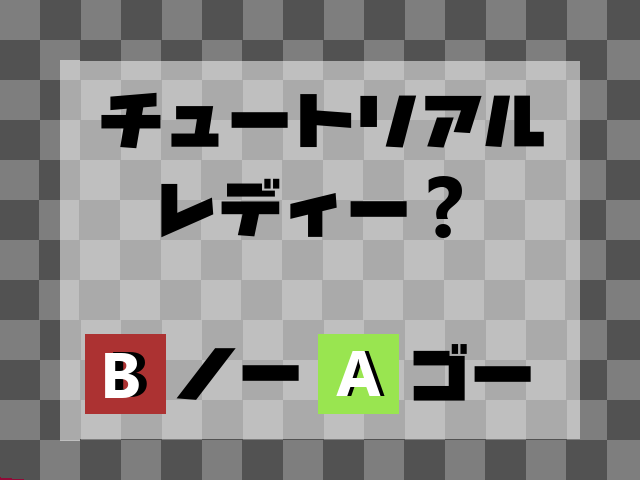
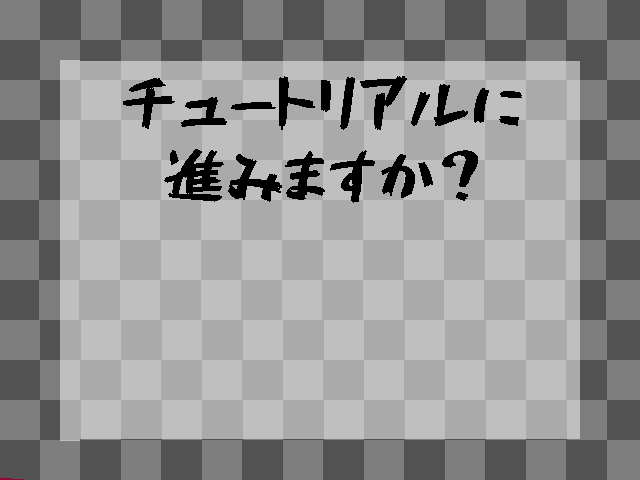
【チュートリアル入り修正】気になる点を修正しました

Changed region(s): [[0.1562, 0.1562, 0.875, 0.5], [0.5, 0.6875, 0.8438, 0.875], [0.125, 0.6875, 0.4688, 0.875]]

diff --git a/SourceCode/gamesystem/scene/MapScene.cpp b/SourceCode/gamesystem/scene/MapScene.cpp
@@ -35,6 +35,30 @@ void MapScene::Initialize(DirectXCommon* dxCommon) {
 	cheack->SetSize({ 0.f,0.f });
 	cheack->SetAnchorPoint({ 0.5f,0.5f });
 
+	const int NumberCount = 2;
+	const float l_Width_Cut = 320.0f;
+	const float l_Height_Cut = 64.0f;
+	for (auto i = 0; i < NumberCount; i++) {
+		cheack_OK[i] = IKESprite::Create(ImageManager::MAP_CHEACK_OK, { 640.f,392.f });
+		cheack_NO[i] = IKESprite::Create(ImageManager::MAP_CHEACK_NO, { 640.f,492.f });
+
+		int number_index_y = i / NumberCount;
+		int number_index_x = i % NumberCount;
+		cheack_OK[i]->SetTextureRect(
+			{ static_cast<float>(number_index_x) * l_Width_Cut, static_cast<float>(number_index_y) * l_Height_Cut },
+			{ static_cast<float>(l_Width_Cut), static_cast<float>(l_Height_Cut) });
+		cheack_NO[i]->SetTextureRect(
+			{ static_cast<float>(number_index_x) * l_Width_Cut, static_cast<float>(number_index_y) * l_Height_Cut },
+			{ static_cast<float>(l_Width_Cut), static_cast<float>(l_Height_Cut) });
+
+		cheack_OK[i]->SetSize({ 0.f,0.f });
+		cheack_OK[i]->SetAnchorPoint({ 0.5f,0.5f });
+
+		cheack_NO[i]->SetSize({ 0.f,0.f });
+		cheack_NO[i]->SetAnchorPoint({ 0.5f,0.5f });
+	}
+
+
 	UIs[0][Middle].sprite = IKESprite::Create(ImageManager::MAP_START, { 0,0 });
 	UIs[0][Middle].pos = { homeX ,homeY[Middle] };
 	UIs[0][Middle].open = true;
@@ -258,6 +282,9 @@ void MapScene::FrontDraw(DirectXCommon* dxCommon) {
 
 	IKESprite::PreDraw();
 	cheack->Draw();
+	cheack_OK[1 - nowCheack]->Draw();
+	cheack_NO[nowCheack]->Draw();
+
 	IKESprite::PostDraw();
 
 	SceneChanger::GetInstance()->Draw();
@@ -662,44 +689,53 @@ void MapScene::CheckState() {
 	const float addFrame = 1.0f / 15.f;
 	static float s_frame = 0.0f;
 	static XMFLOAT2 size = {};
-
+	static XMFLOAT2 cheackSize = {};
 	if (SceneChanger::GetInstance()->GetChangeState() == 1) {
 		delayFrame = 0.f;
 		m_State = State::mainState;
 	}
 
 	if (UIs[nowHierarchy][nowIndex].Tag == TUTORIAL) {
+		if (TutorialClosed()) { return; }
 		if (Helper::FrameCheck(delayFrame, 1 / 20.f)) {
 			if (Helper::FrameCheck(s_frame, addFrame)) {
 				Input* input = Input::GetInstance();
-				if (isClose) {
-					if (Helper::FrameCheck(closeFrame, addFrame)) {
-						m_State = State::mainState;
-						s_frame = 0.f;
-						delayFrame = 0.f;
-						closeFrame = 0.f;
-						isClose = false;
-					} else {
-						size.x = Ease(Out, Quint, closeFrame, 640.f, 0.f);
-						size.y = Ease(Out, Quint, closeFrame, 480.f, 0.f);
-					}
-					cheack->SetSize(size);
-					return;
+
+				if (input->TiltStick(input->L_UP) &&
+					nowCheack == 1) {
+					nowCheack--;
+					cFrame = 0.f;
+					cAdd = 0.03f;
+					Audio::GetInstance()->PlayWave("Resources/Sound/SE/Cursor.wav", 0.1f);
 				}
+				if (input->TiltStick(input->L_DOWN) &&
+					nowCheack == 0) {
+					nowCheack++;
+					cFrame = 0.f;
+					cAdd = 0.03f;
+					Audio::GetInstance()->PlayWave("Resources/Sound/SE/Cursor.wav", 0.1f);
+				}
+
 				if (input->TriggerButton(input->B)) {
-					isClose = true;
-				}
-				if (input->TriggerButton(input->A)) {
-					size = {};
-					s_frame = 0.f;
-					SceneChanger::GetInstance()->SetChangeStart(true);
 					Audio::GetInstance()->PlayWave("Resources/Sound/SE/Button.wav", 0.15f);
+					if (nowCheack == 0) {
+						SceneChanger::GetInstance()->SetChangeStart(true);
+					} else {
+						isClose = true;
+					}
 				}
 			} else {
 				size.x = Ease(Out, Quint, s_frame, 0.f, 640.f);
 				size.y = Ease(Out, Quint, s_frame, 0.f, 480.f);
+				cheack->SetSize(size);
+				cheackSize.x = Ease(Out, Quint, s_frame, 0.f, 320.f);
+				cheackSize.y = Ease(Out, Quint, s_frame, 0.f, 64.f);
+				for (int i = 0; i < 2; i++) {
+					cheack_OK[i]->SetSize(cheackSize);
+					cheack_NO[i]->SetSize(cheackSize);
+				}
 			}
-			cheack->SetSize(size);
+
 		}
 		if (SceneChanger::GetInstance()->GetChange()) {
 			GameReset({ -PANEL_SIZE * 2.f,0.1f,PANEL_SIZE });
@@ -709,6 +745,21 @@ void MapScene::CheckState() {
 			SceneManager::GetInstance()->ChangeScene("TUTORIAL");
 			SceneChanger::GetInstance()->SetChange(false);
 			cheack->SetSize({ 0.0f,0.0f });
+		} else {
+			if (s_frame==1.0f) {
+				if (Helper::FrameCheck(cFrame, cAdd)) {
+					cAdd *= -1.0f;
+					cFrame = 0.99f;
+				}
+				if (cFrame == 0.0f) {
+					cAdd *= -1.0f;
+				}
+				XMFLOAT2 cheackSize_ = cheack_OK[1]->GetSize();
+				cheackSize_.x = Ease(InOut, Quad, cFrame, 320.f, 320.f * 1.1f);
+				cheackSize_.y = Ease(InOut, Quad, cFrame, 64.f, 64.f * 1.1f);
+				cheack_OK[1]->SetSize(cheackSize_);
+				cheack_NO[1]->SetSize(cheackSize_);
+			}
 		}
 	} else {
 		if (Helper::FrameCheck(delayFrame, 1 / 20.f)) {
@@ -742,4 +793,30 @@ void MapScene::CheckState() {
 		}
 	}
 
+}
+
+bool MapScene::TutorialClosed() {
+	if (!isClose) { return false; }
+	const float addFrame = 1.0f / 15.f;
+
+	if (Helper::FrameCheck(closeFrame, addFrame)) {
+		m_State = State::mainState;
+		delayFrame = 0.f;
+		closeFrame = 0.f;
+		isClose = false;
+		return true;
+	} else {
+		XMFLOAT2 l_size = {};
+		XMFLOAT2 c_size = {};
+		l_size.x = Ease(Out, Quint, closeFrame, 640.f, 0.f);
+		l_size.y = Ease(Out, Quint, closeFrame, 480.f, 0.f);
+		c_size.x = Ease(Out, Quint, closeFrame, 320.f, 0.f);
+		c_size.y = Ease(Out, Quint, closeFrame, 64.f, 0.f);
+		cheack->SetSize(l_size);
+		for (int i = 0; i < 2; i++) {
+			cheack_OK[i]->SetSize(c_size);
+			cheack_NO[i]->SetSize(c_size);
+		}
+		return true;
+	}
 }

diff --git a/SourceCode/engine/2d/ImageManager.cpp b/SourceCode/engine/2d/ImageManager.cpp
@@ -26,6 +26,8 @@ void ImageManager::StartLoad2D()
 	IKESprite::LoadTexture(MAP_HEAL, L"Resources/2d/objicon/Map/map_03.png");
 	IKESprite::LoadTexture(MAP_TUTORIAL, L"Resources/2d/objicon/Map/map_04.png");
 	IKESprite::LoadTexture(MAP_CHEACK, L"Resources/2d/objicon/Map/map_cheack.png");
+	IKESprite::LoadTexture(MAP_CHEACK_OK, L"Resources/2d/objicon/Map/T_OK.png");
+	IKESprite::LoadTexture(MAP_CHEACK_NO, L"Resources/2d/objicon/Map/T_Cancel.png");
 	IKESprite::LoadTexture(TUTORIAL_SKIPUI, L"Resources/2d/objicon/SKIP.png");
 	IKESprite::LoadTexture(PASSIVE_01, L"Resources/2d/objicon/Passive/Passive_01.png");
 	IKESprite::LoadTexture(PASSIVE_02, L"Resources/2d/objicon/Passive/Passive_02.png");

diff --git a/SourceCode/gamesystem/scene/MapScene.h b/SourceCode/gamesystem/scene/MapScene.h
@@ -65,6 +65,9 @@ private:
 	void BlackOut();
 
 	void Move();
+
+
+	bool TutorialClosed();
 private:
 	enum {
 		StartMAP = 0,
@@ -96,6 +99,13 @@ private:
 	static array<array<int, 3>, 10> mapKinds;
 	unique_ptr<IKESprite> screen = nullptr;
 	unique_ptr<IKESprite> cheack= nullptr;
+	unique_ptr<IKESprite> cheack_OK[2] = {};
+	unique_ptr<IKESprite> cheack_NO[2] = {};
+	int nowCheack = 0;
+	float cFrame = 0;
+	float cAdd = 0.03f;
+
+
 	unique_ptr<IKESprite> frame = nullptr;
 	unique_ptr<IKESprite> chara = nullptr;
 

diff --git a/SourceCode/engine/2d/ImageManager.h b/SourceCode/engine/2d/ImageManager.h
@@ -35,6 +35,8 @@ public:
 		MAP_HEAL,
 		MAP_TUTORIAL,
 		MAP_CHEACK,
+		MAP_CHEACK_OK,
+		MAP_CHEACK_NO,
 		TUTORIAL_SKIPUI,
 		PASSIVE_01,
 		PASSIVE_02,
